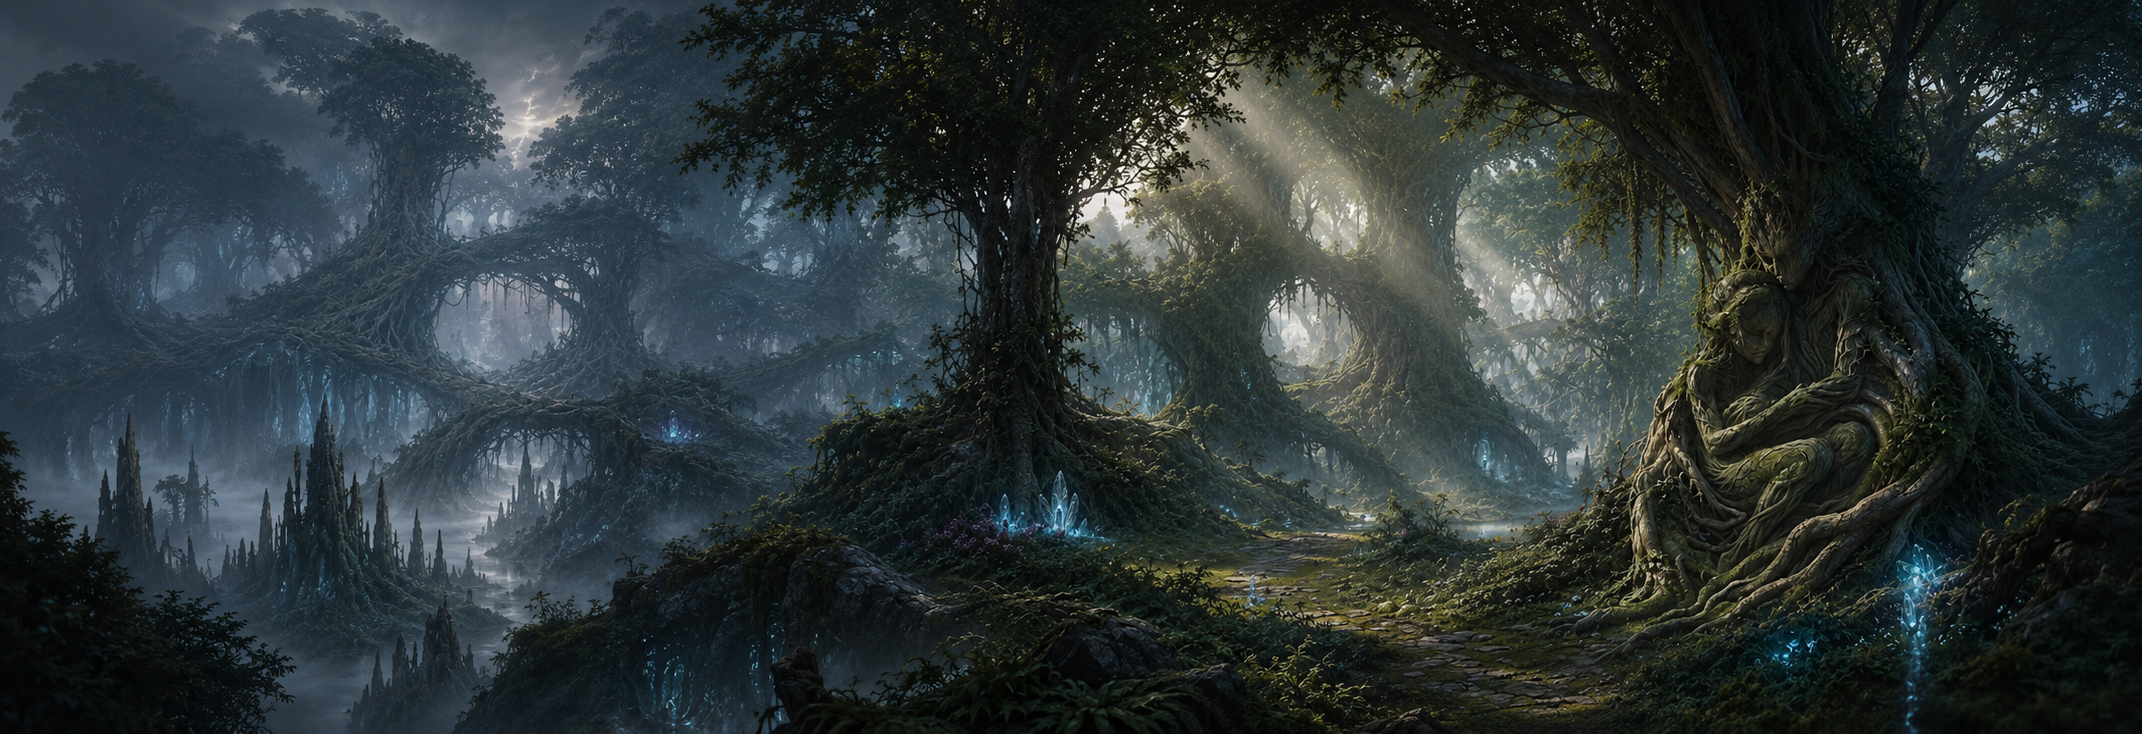
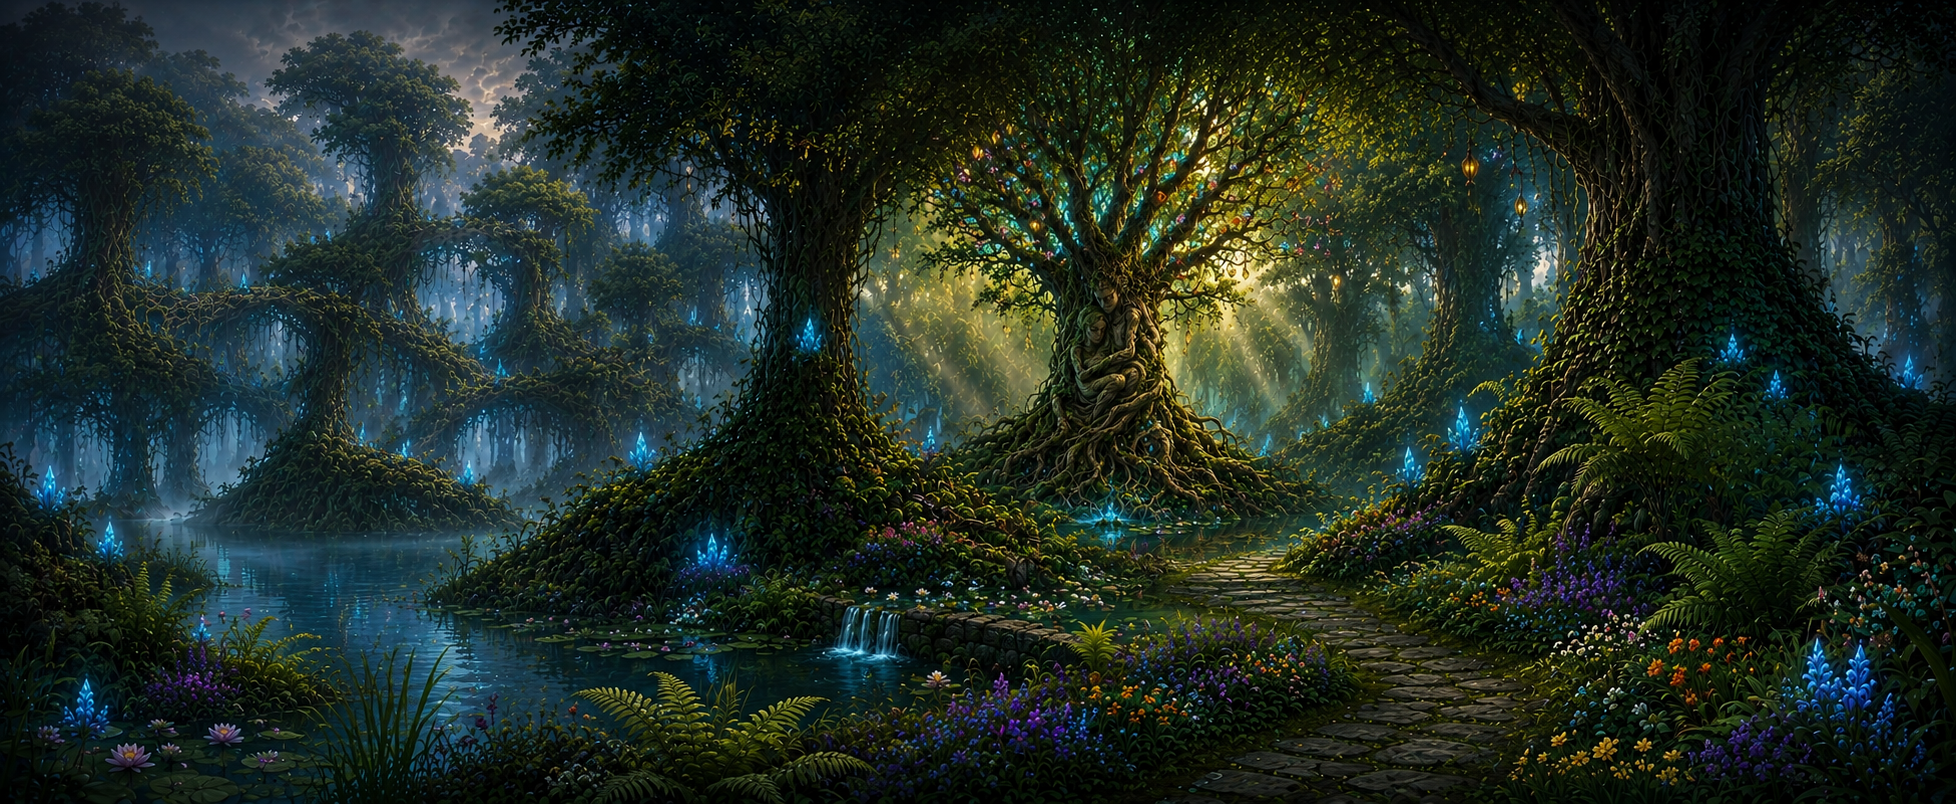
Refactor code structure for improved readability and maintainability

diff --git a/src/data/rooms.ts b/src/data/rooms.ts
@@ -268,9 +268,9 @@ export const INITIAL_ROOMS: Room[] = [
       }
     },
     clickAreas: [
-      { id: 'ca-hain-1', targetRoomId: 'wintergarten', x: 15, y: 73, width: 20, height: 40, label: 'Zurück ins lichtdurchflutete Gewächshaus' },
-      { id: 'ca-hain-2', targetRoomId: 'stiller-innenhof', x: 25, y: 50, width: 25, height: 35, label: 'Der Pfad zum Brunnenlicht' },
-      { id: 'ca-hain-3', targetRoomId: 'sandstrand', x: 65, y: 45, width: 18, height: 18, label: 'Ein warmer Abstieg zum Abendstrand' }
+      { id: 'ca-hain-1', targetRoomId: 'wintergarten', x: 20, y: 60, width: 20, height: 40, label: 'Zurück ins lichtdurchflutete Gewächshaus' },
+      { id: 'ca-hain-2', targetRoomId: 'stiller-innenhof', x: 80, y: 60, width: 25, height: 35, label: 'Der Pfad zum Brunnenlicht' },
+      { id: 'ca-hain-3', targetRoomId: 'sandstrand', x: 5, y: 45, width: 18, height: 18, label: 'Ein warmer Abstieg zum Abendstrand' }
     ],
     transitionType: 'tuer',
     movementIntensity: 'gering',

diff --git a/src/index.css b/src/index.css
@@ -310,10 +310,10 @@
 
 @keyframes hainPanOnce {
   0% {
-    transform: translate3d(11.5%, 0, 0);
+    transform: translate3d(5%, 0, 0);
   }
   100% {
-    transform: translate3d(-11.0%, 0, 0);
+    transform: translate3d(-5%, 0, 0);
   }
 }
 